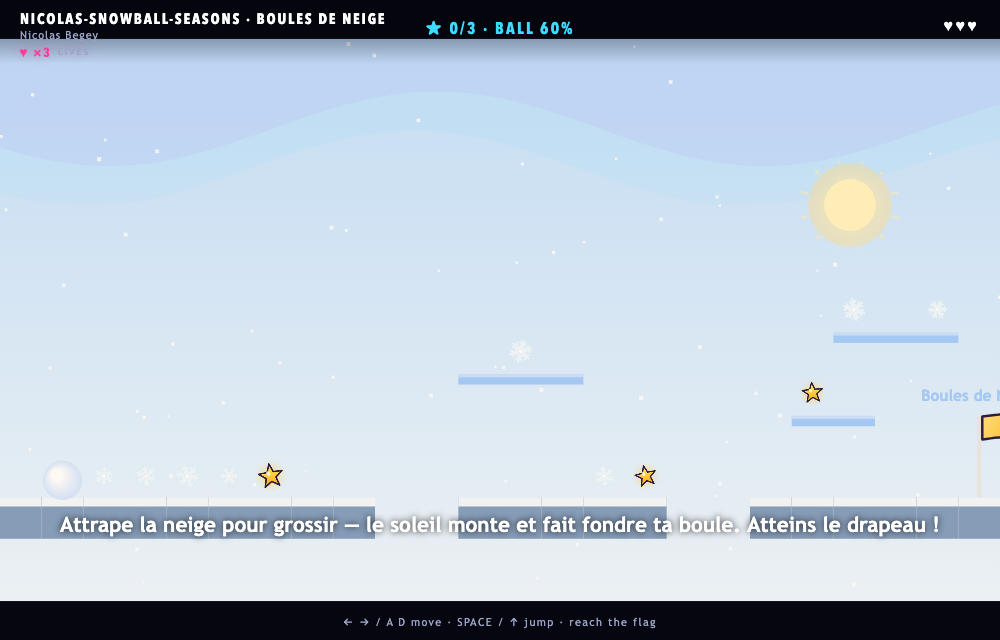
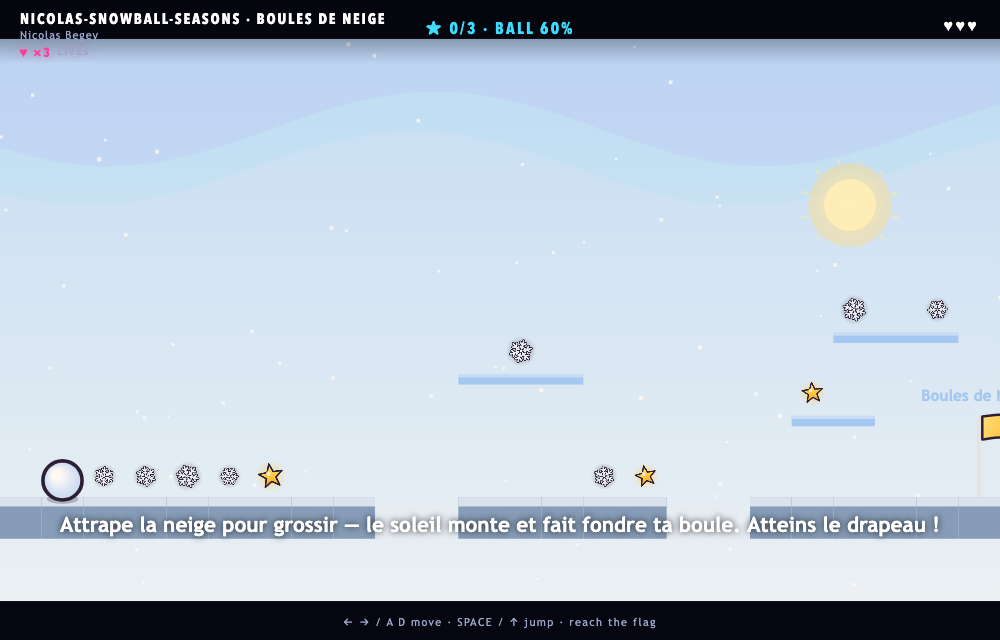
Fix #20: booth-distance readability — crystal ink edges, snowball outline, honest i-frames, cloud pit shadows (#35)
* test(issue-20): capture before-state evidence; numeric contrast gates RED

Deterministic rig captures (port 8620, no-drive matched-t stills + driven
respawn-blink burst). Numeric gates (tmp.benchmarks/issue20/gate.py, scratch):
- N1 pickups: ink dark px 0, local delta -9.6 (white-on-white, invisible)
- N2 ball: ink ring dark px 0 (no outline, no shadow)
- B2 blink: worst burst frame 0 red-cap px (hero fully skipped on off-ticks)
- B3 strips: no underside shadow (drop 0.0)
- GRASS: #f2f8ff cap unchanged
Before-vs-before noise floor: drop 0.0, deltas identical -> thresholds sit
well above capture noise.

* fix(issue-20): booth-distance readability — snow crystal ink edges, snowball outline, honest i-frames, cloud pit shadows

N1 snow pickups: repaint SNOW_CRYSTAL — soft dark halo + cool glow, arms
double-stroked (wide INK under-stroke -> #e8f4ff over-stroke), white core
with ink ring. Bake size + blit site untouched. Gate: ink dark px 0 -> 95.

N2 snowball hero: cooler edge stop #c9def5 on the radial, INK ring
(clamped 2.5-3.5), contact shadow (0.24 alpha) anchoring the ball on the
near-white grass cap; grass cap #f2f8ff -> #d7e7f9 (level v3). Gate:
ring dark px 0 -> 417, grass drop 11.1 (control 0.5).

B1+B2 mushroom hero: respawn i-frames become an alpha flicker (0.35 on
off-ticks) instead of skip-blink — the hero is never invisible; render
40 -> 46 px (hitbox stays 24x32) + warm rim halo behind, shadow re-anchored
[…]

diff --git a/src/genres/platformer.js b/src/genres/platformer.js
@@ -92,23 +92,42 @@ const STAR_COIN = sprite("p-coin", 96, (g, w, h) => {
   g.beginPath(); g.ellipse(cx - R * 0.16, cy - R * 0.24, R * 0.14, R * 0.2, -0.5, 0, PI2); g.fill();
 });
 
-// snow pickup (seasons mechanic): six-arm crystal with cool glow
+// snow pickup (seasons mechanic): six-arm crystal with cool glow. N1 fix
+// (issue #20 contrast sweep): this was the only actor painter with no ink
+// outline — white arms + white glow read as invisible on the pale ice sky.
+// Star-coin treatment, adapted: soft DARK halo first (separates from pale
+// sky), cool glow, arms double-stroked (wide INK under-stroke -> #e8f4ff
+// over-stroke), white core dot with an ink ring. Still a snowflake; edges.
 const SNOW_CRYSTAL = sprite("p-snow", 96, (g, w, h) => {
   const cx = w / 2, cy = h / 2, R = w * 0.38;
-  const glow = g.createRadialGradient(cx, cy, R * 0.05, cx, cy, R * 1.3);
-  glow.addColorStop(0, "rgba(214,240,255,.95)"); glow.addColorStop(1, "rgba(214,240,255,0)");
+  const halo = g.createRadialGradient(cx, cy, R * 0.2, cx, cy, R * 1.45);
+  halo.addColorStop(0, "rgba(29,20,51,.28)");
+  halo.addColorStop(0.62, "rgba(29,20,51,.16)");
+  halo.addColorStop(1, "rgba(29,20,51,0)");
+  g.fillStyle = halo;
+  g.beginPath(); g.arc(cx, cy, R * 1.45, 0, PI2); g.fill();
+  const glow = g.createRadialGradient(cx, cy, R * 0.05, cx, cy, R * 1.25);
+  glow.addColorStop(0, "rgba(214,240,255,.9)"); glow.addColorStop(1, "rgba(214,240,255,0)");
   g.fillStyle = glow;
-  g.beginPath(); g.arc(cx, cy, R * 1.3, 0, PI2); g.fill();
-  g.strokeStyle = "#eef8ff"; g.lineWidth = w * 0.072; g.lineCap = "round";
-  for (let i = 0; i < 6; i++) {
-    g.save(); g.translate(cx, cy); g.rotate((i * Math.PI) / 3);
-    g.beginPath(); g.moveTo(0, 0); g.lineTo(0, -R); g.stroke();
-    g.beginPath(); g.moveTo(0, -R * 0.58); g.lineTo(-R * 0.26, -R * 0.8); g.moveTo(0, -R * 0.58); g.lineTo(R * 0.26, -R * 0.8); g.stroke();
-    g.beginPath(); g.moveTo(0, -R * 0.30); g.lineTo(-R * 0.15, -R * 0.44); g.moveTo(0, -R * 0.30); g.lineTo(R * 0.15, -R * 0.42); g.stroke();
-    g.restore();
-  }
+  g.beginPath(); g.arc(cx, cy, R * 1.25, 0, PI2); g.fill();
+  g.lineCap = "round"; g.lineJoin = "round";
+  const arms = () => {
+    for (let i = 0; i < 6; i++) {
+      g.save(); g.translate(cx, cy); g.rotate((i * Math.PI) / 3);
+      g.beginPath(); g.moveTo(0, 0); g.lineTo(0, -R); g.stroke();
+      g.beginPath(); g.moveTo(0, -R * 0.58); g.lineTo(-R * 0.26, -R * 0.8); g.moveTo(0, -R * 0.58); g.lineTo(R * 0.26, -R * 0.8); g.stroke();
+      g.beginPath(); g.moveTo(0, -R * 0.30); g.lineTo(-R * 0.15, -R * 0.44); g.moveTo(0, -R * 0.30); g.lineTo(R * 0.15, -R * 0.42); g.stroke();
+      g.restore();
+    }
+  };
+  g.strokeStyle = INK; g.lineWidth = w * 0.115;
+  arms();
+  g.strokeStyle = "#e8f4ff"; g.lineWidth = w * 0.055;
+  arms();
   g.fillStyle = "#ffffff";
   g.beginPath(); g.arc(cx, cy, w * 0.055, 0, PI2); g.fill();
+  g.strokeStyle = INK; g.lineWidth = w * 0.024;
+  g.beginPath(); g.arc(cx, cy, w * 0.055, 0, PI2); g.stroke();
 });
 
 // waving gold pennant drawn live (cheap path ops) — replaces the goal glyph
@@ -354,7 +373,22 @@ export function create(level, api) {
       if (run.c1 < c0 || run.c0 > c1) continue;
       const x0 = run.c0 * T, x1 = (run.c1 + 1) * T;
       if (st.platform === "cloud") {
-        drawCloud(ctx, (x0 + x1) / 2, run.r * T - 6, x1 - x0 + 10);
+        // pit depth cue (issue #20 B3): a soft dark strip strictly BELOW the
+        // cloud base line — clouds float, pits read as pits. Painted here
+        // (not in core.drawCloud) so the shared painter, also used
+        // decoratively by the "clouds" backdrop preset, stays untouched.
+        // alpha <= 0.13 and no collision change: falls pass through exactly
+        // as before, the strip never reads as a walkable platform.
+        const cw = x1 - x0 + 10;
+        const ch = Math.max(10, cw * 0.22);        // drawCloud height for this width
+        const top = run.r * T - 6 + ch * 1.3;      // base line + below the puffs
+        const sh = ctx.createLinearGradient(0, top, 0, top + 16);
+        sh.addColorStop(0, "rgba(16,18,46,0)");
+        sh.addColorStop(0.5, "rgba(16,18,46,.13)");
+        sh.addColorStop(1, "rgba(16,18,46,0)");
+        ctx.fillStyle = sh;
+        ctx.fillRect(x0 + 6, top, x1 - x0 - 12, 16);
+        drawCloud(ctx, (x0 + x1) / 2, run.r * T - 6, cw);
       } else {
         ctx.fillStyle = st.accent || "#ffd23e";
         ctx.fillRect(x0, run.r * T + 2, x1 - x0, 10);
@@ -388,26 +422,46 @@ export function create(level, api) {
     drawFlagCloth(ctx, goal.x + 3, goal.y - 77, t);
     drawText(ctx, level.title, goal.x, goal.y - 96, { size: 15, color: st.accent || "#fff" });
 
-    // player
-    if (inv <= 0 || Math.floor(t * 14) % 2 === 0) {
-      const lean = clamp(P.vx * 0.06, -0.18, 0.18);
-      if (MECH) {
-        const R = 11 + melt * 13;
-        const g = ctx.createRadialGradient(P.x - R * 0.3, P.y - R * 0.3, R * 0.25, P.x, P.y, R);
-        g.addColorStop(0, "#ffffff"); g.addColorStop(1, "#cfe4ff");
-        ctx.fillStyle = g;
-        ctx.beginPath(); ctx.arc(P.x, P.y, R, 0, Math.PI * 2); ctx.fill();
-      } else {
-        // hero: baked mushroom-runner, contact shadow, run/idle frames, facing flip
-        const moving = Math.abs(P.vx) > 0.5 && P.onGround;
-        const hero = moving && Math.floor(t * 9) % 2 === 1 ? HERO_RUN : HERO_IDLE;
-        ctx.save();
-        ctx.globalAlpha = 0.24;
-        ctx.fillStyle = "#10122e";
-        ctx.beginPath(); ctx.ellipse(P.x, P.y + 18, 13, 4.4, 0, 0, Math.PI * 2); ctx.fill();
-        ctx.restore();
-        blit(ctx, hero, P.x, P.y, 40, { rot: lean, flip: P.face === -1 ? -1 : 1 });
-      }
+    // player — respawn i-frames flicker via ALPHA instead of skipping the
+    // draw (issue #20 B2: a 50%-duty skip made the hero fully vanish for
+    // 1.2 s; an honest 0.35 flicker never does). Mushroom renders 46 px
+    // (B1: hitbox stays 24x32); warm rim halo keeps falling frames alive
+    // over the dark bottom band (B1); snowball gains edge stop + ink ring
+    // + contact shadow (N2: separation, white-ball identity kept — A1).
+    const heroAlpha = inv > 0 && Math.floor(t * 14) % 2 === 1 ? 0.35 : 1;
+    const lean = clamp(P.vx * 0.06, -0.18, 0.18);
+    if (MECH) {
+      const R = 11 + melt * 13;
+      ctx.save();
+      ctx.globalAlpha = 0.24 * heroAlpha;
+      ctx.fillStyle = "#10122e";
+      ctx.beginPath(); ctx.ellipse(P.x, P.y + R * 0.95, R * 0.8, R * 0.26, 0, 0, Math.PI * 2); ctx.fill();
+      ctx.restore();
+      ctx.save();
+      ctx.globalAlpha = heroAlpha;
+      const g = ctx.createRadialGradient(P.x - R * 0.3, P.y - R * 0.3, R * 0.25, P.x, P.y, R);
+      g.addColorStop(0, "#ffffff"); g.addColorStop(0.72, "#cfe4ff"); g.addColorStop(1, "#c9def5");
+      ctx.fillStyle = g;
+      ctx.beginPath(); ctx.arc(P.x, P.y, R, 0, Math.PI * 2); ctx.fill();
+      ctx.strokeStyle = INK;
+      ctx.lineWidth = clamp(R * 0.22, 2.5, 3.5);   // survives the shrink to melt 34%
+      ctx.stroke();
+      ctx.restore();
+    } else {
+      // hero: baked mushroom-runner, contact shadow, run/idle frames, facing flip
+      const moving = Math.abs(P.vx) > 0.5 && P.onGround;
+      const hero = moving && Math.floor(t * 9) % 2 === 1 ? HERO_RUN : HERO_IDLE;
+      ctx.save();
+      ctx.globalAlpha = 0.16 * heroAlpha;            // warm rim halo (B1)
+      ctx.fillStyle = "rgb(255,244,214)";
+      ctx.beginPath(); ctx.arc(P.x, P.y, 32, 0, Math.PI * 2); ctx.fill();
+      ctx.restore();
+      ctx.save();
+      ctx.globalAlpha = 0.24 * heroAlpha;
+      ctx.fillStyle = "#10122e";
+      ctx.beginPath(); ctx.ellipse(P.x, P.y + 20.5, 13, 4.4, 0, 0, Math.PI * 2); ctx.fill();
+      ctx.restore();
+      blit(ctx, hero, P.x, P.y, 46, { alpha: heroAlpha, rot: lean, flip: P.face === -1 ? -1 : 1 });
     }
     ctx.restore();
     seasonTint(ctx);

diff --git a/levels/bethany-cloudwalk/EXCELLENT.md b/levels/bethany-cloudwalk/EXCELLENT.md
@@ -1,5 +1,13 @@
 # EXCELLENT.md — Cloudwalk (Bethany's level, L1 of ALL IN ARCADE) — v9 (visual overhaul)
 
+> **Addendum (issue #20 contrast sweep, 2026-09-20 — engine-side, visual only):**
+> the shared platformer painter gained hero locatability fixes that apply here:
+> respawn blink is now an alpha flicker (0.35, never a skipped draw), the hero
+> renders 46 px (hitbox still 24×32) with a soft warm rim halo over the dark
+> bottom band, and cloud runs paint a soft underside shadow strip (α≤0.13,
+> strictly below the cloud base) so pits read as pits (B1/G2). `level.data`
+> rows remain byte-identical to v8/v9; physics path untouched.
+
 My own bar for what "excellent" means for the **first level a real attendee ever built** at the
 All In booth. Bethany asked for *"a platformer that looks something like the cloud level from
 Super Mario Bros."* — so the bar is SMB 1-1 energy: instant recognition, an easy main path,

diff --git a/levels/nicolas-snowball-seasons/EXCELLENT.md b/levels/nicolas-snowball-seasons/EXCELLENT.md
@@ -1,5 +1,10 @@
 # EXCELLENT.md — Boules de Neige (le niveau de Nicolas, L7 of ALL IN ARCADE)
 
+> **Addendum v3 (issue #20 contrast sweep, 2026-09-20 — visual only):** one-stop
+> glacier tint on the grass cap `#f2f8ff` → `#d7e7f9` so the white snowball and
+> white snow pickups separate from the ground they stand on (A1/A3 intact —
+> still the arctic "pôle Nord" palette; rows, physics and economy untouched).
+
 Ma définition du « excellent » **pour CE niveau**. Nicolas a demandé, verbatim :
 *« je voudrais un jeu où on joue des boules de neige et, en fonction de la saison et en fonction
 de la hauteur du soleil, la boule de neige sera plus ou moins grosse. »*
